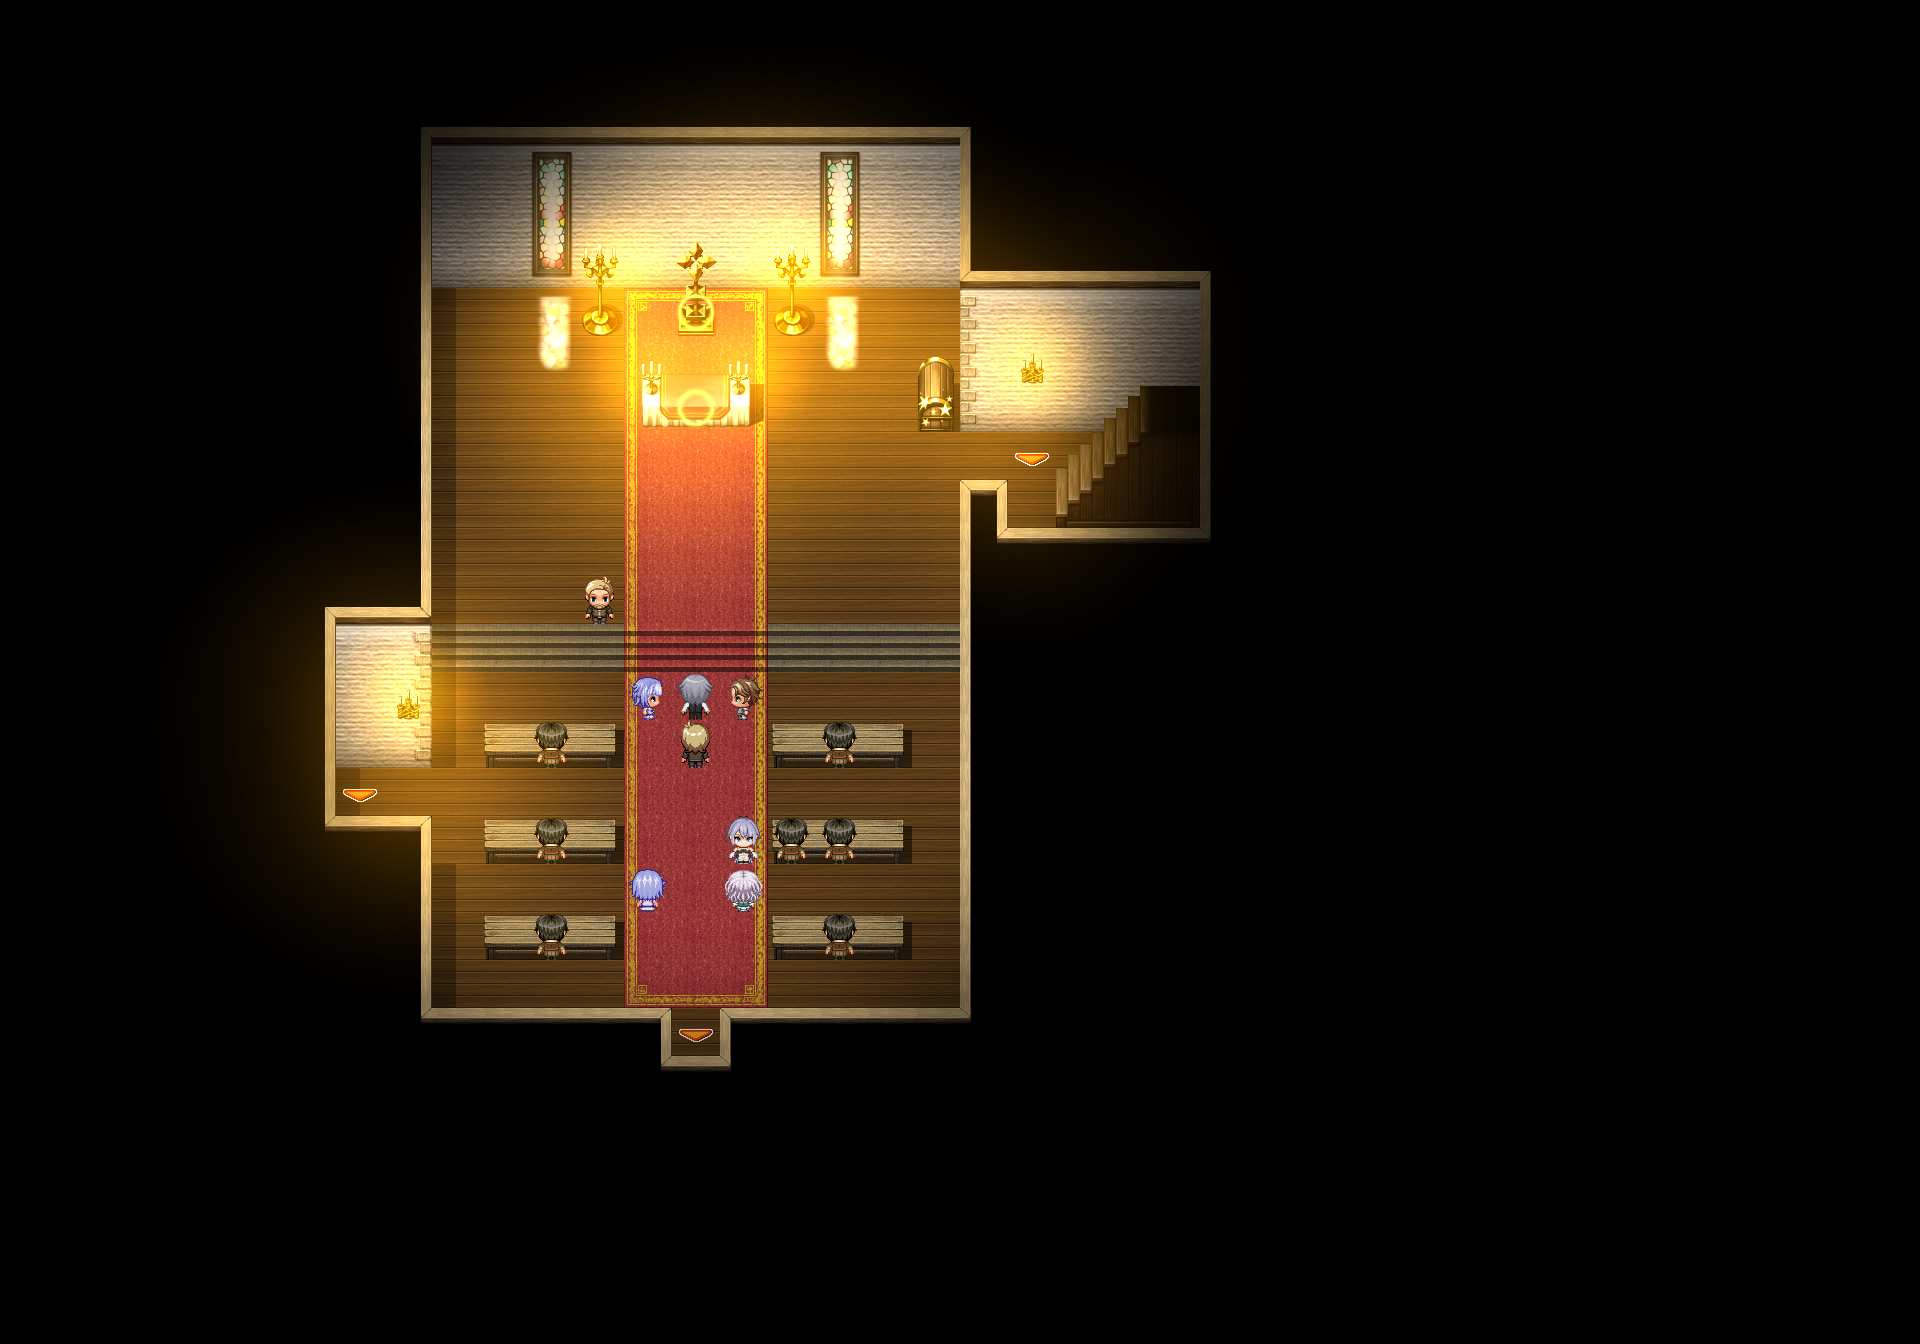
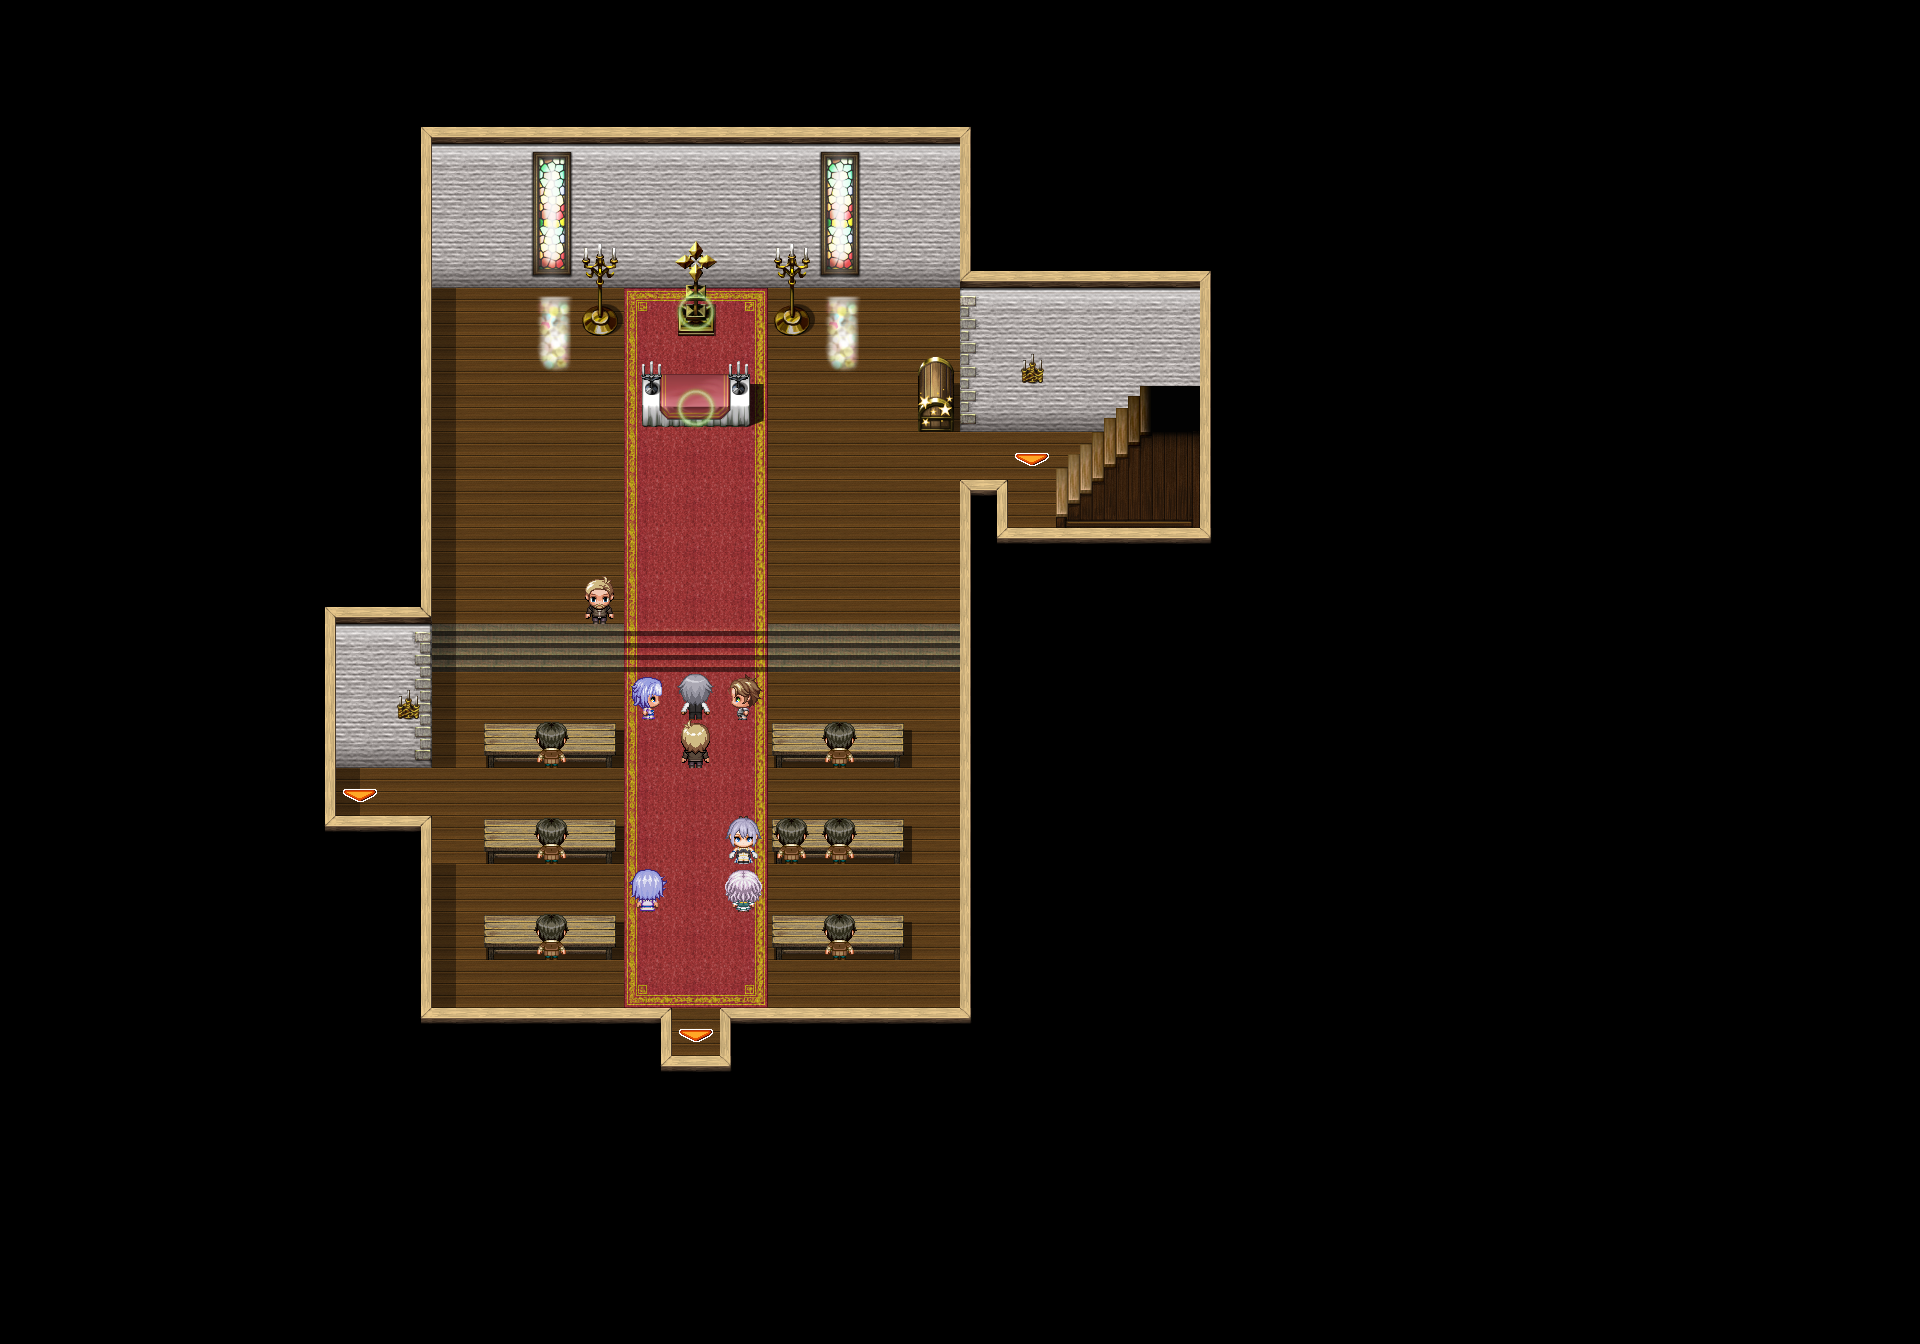
feat: PLM 合入渲染图 + MapTone 色调（按时段）
ParallaxLayer 插件在 postRender 中将 PLM 图层按 blend 模式合入最终 PNG（仅夜间），并按 MAPTYPE 和时段叠加 MapTone 色调（夕方暖橙，夜间暗化+去饱和）。render-maps.js 文件保存移至 postRender 之前并传入 outputPath。

Changed region(s): [[0.2188, 0.0625, 0.6562, 0.4375], [0.125, 0.4062, 0.5312, 0.8125]]

diff --git a/scripts/plugins/ParallaxLayer.js b/scripts/plugins/ParallaxLayer.js
@@ -82,6 +82,68 @@ module.exports = {
 
       if (meta.length > 0) {
         fs.writeFileSync(path.join(plmDir, 'info.json'), JSON.stringify(meta, null, 2), 'utf8');
+
+        // ── 按时段透明度将 PLM 图层合入最终渲染图 ──
+        // 时段因子：昼=0（不显示）、夕方=0.35、夜=1.0
+        var _tv = global['TIME_VARIABLE_31'];
+        var timeFactor = (_tv === 3) ? 1.0 : 0;
+        if (timeFactor > 0) try {
+          var compositeOps = [];
+          for (var ci = 0; ci < layers.length; ci++) {
+            var cl = layers[ci];
+            var clPath = path.join(plmDir, cl.file + '.png');
+            if (!fs.existsSync(clPath)) continue;
+            var blendMode = cl.blend === 1 ? 'add' : (cl.blend === 3 ? 'multiply' : 'over');
+            compositeOps.push({
+              input: clPath,
+              blend: blendMode,
+              opacity: ((cl.opacity || 255) / 255) * timeFactor,
+            });
+          }
+          if (compositeOps.length > 0 && ctx.outputPath) {
+            var imgBuf = await sharp(ctx.outputPath).composite(compositeOps).png().toBuffer();
+            fs.writeFileSync(ctx.outputPath, imgBuf);
+          }
+        } catch(ce) {
+          console.error("[ParallaxLayer] PLM composite failed:", ce.message);
+        }
+
+        // ── 叠加 MapTone 色调（基于 MAPTYPE 和时段） ──
+        var mapNote = ctx.map && ctx.map.note || "";
+        var mapType = (mapNote.match(/<MAPTYPE:\s*(\w+)\s*>/) || [])[1] || "";
+        if (mapType) {
+          var toneMap = {
+            INSIDE:         { 0: [0,0,0,0], 1: [0,0,0,0], 2: [0,0,0,0], 3: [-68,-68,0,68] },
+            OUTSIDE:        { 0: [0,0,0,0], 1: [0,0,0,0], 2: [17,-34,-34,0], 3: [-68,-68,0,34] },
+            OUTSIDE_TOWN:   { 0: [0,0,0,0], 1: [0,0,0,0], 2: [17,-34,-34,0], 3: [-68,-68,0,34] },
+            INSIDE_WINDOW:  { 0: [0,0,0,0], 1: [0,0,0,0], 2: [17,-34,-34,0], 3: [-68,-68,0,34] },
+          };
+          var tone = (toneMap[mapType] || {})[_tv];
+          if (tone && tone.some(function(v){return v!==0;})) {
+            try {
+              var rOff = tone[0], gOff = tone[1], bOff = tone[2], grayAmt = (tone[3]||0) / 255;
+              var raw = await sharp(ctx.outputPath).raw().toBuffer();
+              var meta2 = await sharp(ctx.outputPath).metadata();
+              var w2 = meta2.width, h2 = meta2.height;
+              for (var ti = 0; ti < raw.length; ti += 4) {
+                var cr = raw[ti] + rOff, cg = raw[ti+1] + gOff, cb = raw[ti+2] + bOff;
+                cr = cr < 0 ? 0 : (cr > 255 ? 255 : cr);
+                cg = cg < 0 ? 0 : (cg > 255 ? 255 : cg);
+                cb = cb < 0 ? 0 : (cb > 255 ? 255 : cb);
+                if (grayAmt > 0) {
+                  var gv = (cr + cg + cb) / 3;
+                  cr += (gv - cr) * grayAmt;
+                  cg += (gv - cg) * grayAmt;
+                  cb += (gv - cb) * grayAmt;
+                }
+                raw[ti] = Math.round(cr);
+                raw[ti+1] = Math.round(cg);
+                raw[ti+2] = Math.round(cb);
+              }
+              await sharp(raw, { raw: { width: w2, height: h2, channels: 4 } }).png().toFile(ctx.outputPath);
+            } catch(te) { console.error("[ParallaxLayer] MapTone apply failed:", te.message); }
+        }
+        }
       }
     } catch(e) {
       // 保存失败则跳过

diff --git a/scripts/render-maps.js b/scripts/render-maps.js
@@ -676,16 +676,16 @@ async function renderMap(mapId, tilesets, allMapIds, total) {
   var evCount = await renderEvents(lowerBuf, outW, outH, map, tsNames, tsImgs);
   if (evCount > 0) process.stdout.write(`    ${evCount} 个事件精灵已渲染\n`);
 
-  // 运行 postRender 钩子插件（叠加视差图层、滤镜等）
-  if (HOOKS.postRender) for (var pi = 0; pi < HOOKS.postRender.length; pi++) {
-    await HOOKS.postRender[pi].process({ buf: lowerBuf, width: outW, height: outH, map: map, mapId: mapId, gameDir: GAME_DIR, outDir: OUT_DIR });
-  }
-
   // 输出合拼 PNG（夜间输出到 _night.png）
   var nightSuffix = (global['TIME_VARIABLE_31'] || 1) >= 3 ? '_night.png' : '.png';
   const outName = 'Map' + String(mapId).padStart(4, '0') + nightSuffix;
   const outPath = OUT_DIR + '/' + outName;
   await sharp(lowerBuf, { raw: { width: outW, height: outH, channels: 4 } }).png().toFile(outPath);
+
+  // 运行 postRender 钩子插件（叠加视差图层、滤镜等，文件已保存可读写）
+  if (HOOKS.postRender) for (var pi = 0; pi < HOOKS.postRender.length; pi++) {
+    await HOOKS.postRender[pi].process({ buf: lowerBuf, width: outW, height: outH, map: map, mapId: mapId, gameDir: GAME_DIR, outDir: OUT_DIR, outputPath: outPath });
+  }
 
   // 输出 tilemap sidecar（不带时段后缀，昼夜共用）
   const baseName = 'Map' + String(mapId).padStart(4, '0') + '.png';
